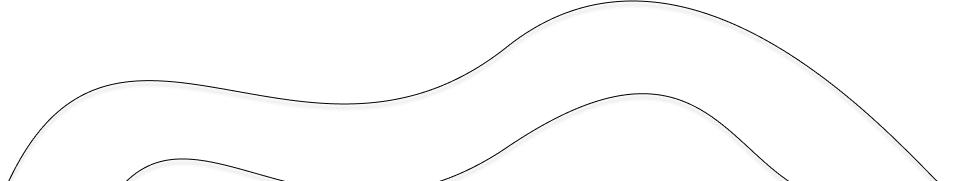
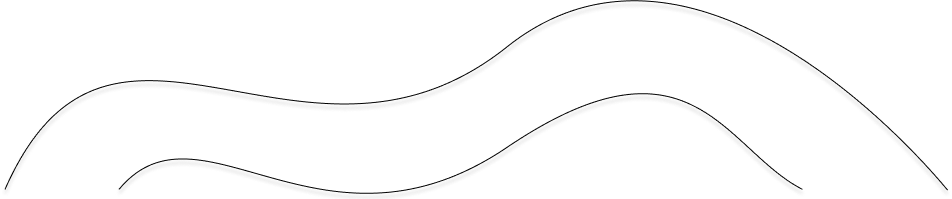
ça avance de fou ou quoi

diff --git a/index.html b/index.html
@@ -10,11 +10,24 @@
     <main>
         <img id="#burgerMenu" alt="burgerMenu" src="ressources/img/burgerMenu.png"/>
         <div id="mainPage">
+            <img class="vectors" id="vector1" alt="lignes" src="ressources/img/vector1.png"/>
+            <img class="vectors" id="vector2" alt="lignes" src="ressources/img/vector2.png"/>
+
             <div id="txtMain">
                 <p class="nom">Bonjour, Je suis</p>
                 <p class="nom"> Maëlys Boissezon</p>
                 <p id="#prtfTxt">Et voici mon portfolio</p>
                 <img alt="flecheShowRest" src="ressources/img/showRest.png"/>
+
+            </div>
+            <div id="#ligneBas">
+                <svg xlmns="http://www.w3.org/2000/svg" width="100%" height="100%" fill="#FFF7ED">
+                    <!-- cercle courbe bas -->
+                    <circle cx="110" cy="110" r="30" fill="#F8B85D"  />
+                    <circle cx="580" cy="170" r="55" fill="#61236C"  />
+                    <circle cx="920" cy="120" r="45" fill="#F3AAA5" />
+                </svg>
+                <img class="vectors" id="vector3" alt="lignes" src="ressources/img/vector3.png"/>
             </div>
         </div>
 

diff --git a/ressources/css/style2.css b/ressources/css/style2.css
@@ -146,3 +146,46 @@ h2{
 #projets > h1{
     margin-top: 300px ;
 }
+
+#mainPage svg{
+    height: 115vh;
+}
+
+.vectors{
+    position: absolute;
+}
+#vector1{
+    top: 0;
+    left: -1px;
+}
+
+#vector2{
+    top:15vh;
+    left:2px;
+}
+
+#vector3{
+    bottom: -30px;
+    right: 25px;
+}
+
+svg{
+    z-index: -1;
+}
+
+.vectors{
+    z-index: -2;
+}
+
+#\#ligneBas{
+    position: absolute;
+    bottom: 0px;
+    right: 10px;
+}
+#mainPage #\#ligneBas svg{
+    position: relative;
+    bottom: -30px;
+    width: 1000px;
+    height: 225px;
+
+}
